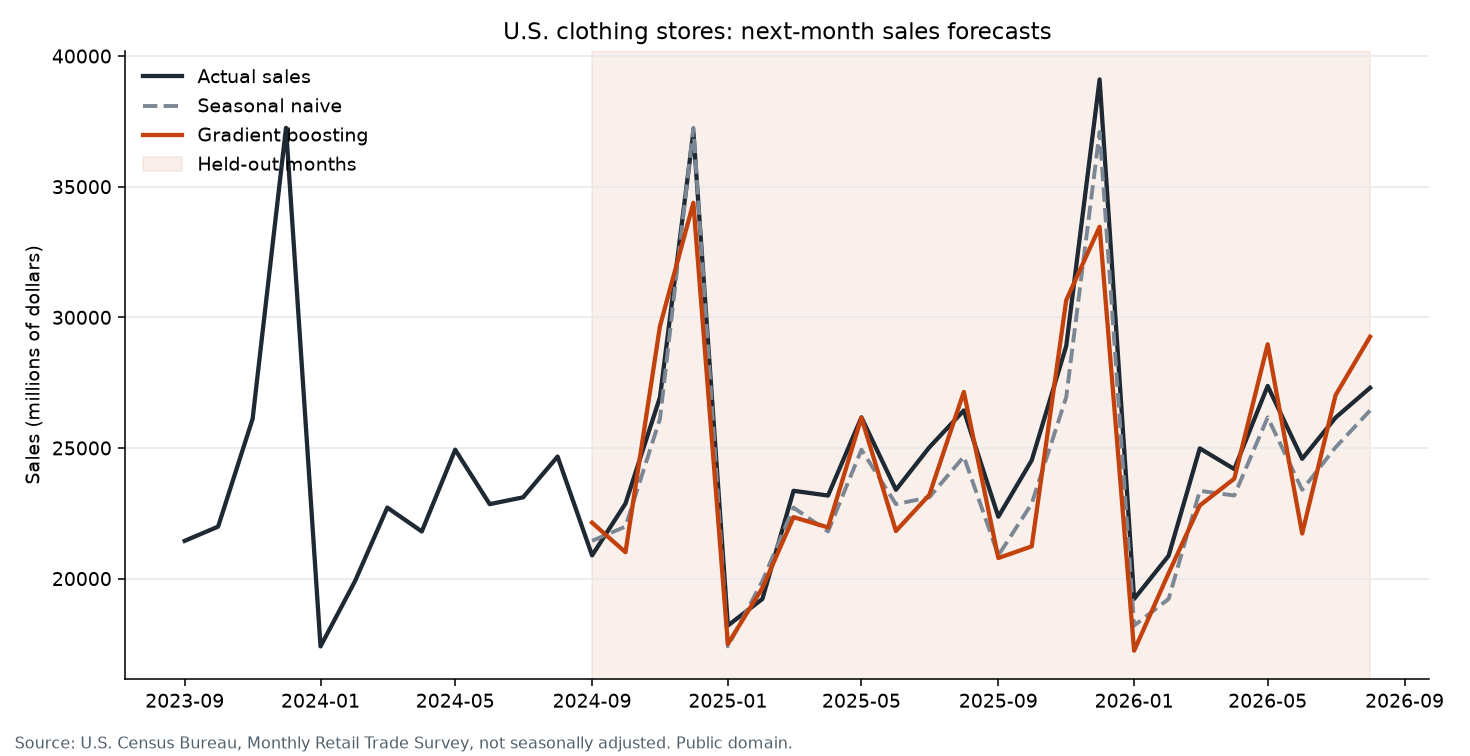
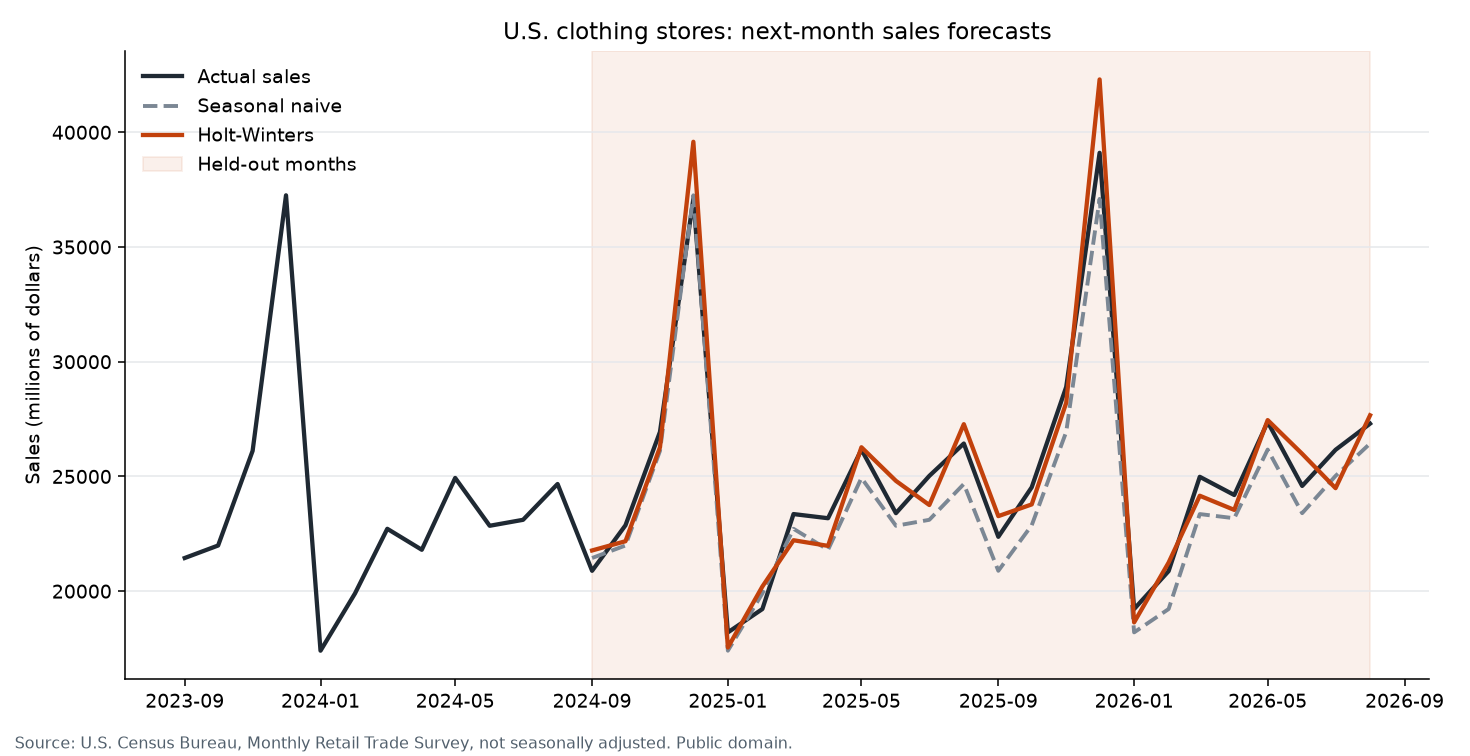
Choose the sales forecast on a window before the holdout.
Compare residual boosting, Holt-Winters, and SARIMA on the earlier 24 months, then score only that choice against the seasonal baseline.

diff --git a/fiverr-samples/sales-forecast/forecast_sales.py b/fiverr-samples/sales-forecast/forecast_sales.py
@@ -6,6 +6,7 @@ The same steps apply to a shop's own monthly export.
 """
 
 import json
+import warnings
 import urllib.request
 from pathlib import Path
 
@@ -13,6 +14,8 @@ import matplotlib.pyplot as plt
 import numpy as np
 import pandas as pd
 from sklearn.ensemble import HistGradientBoostingRegressor
+from statsmodels.tsa.holtwinters import ExponentialSmoothing
+from statsmodels.tsa.statespace.sarimax import SARIMAX
 
 HERE = Path(__file__).resolve().parent
 DATA_DIR = HERE / "data"
@@ -21,7 +24,10 @@ OUT_DIR = HERE / "output"
 SOURCE_URL = "https://www.census.gov/retail/mrts/www/mrtssales92-present.xlsx"
 WORKBOOK = DATA_DIR / "mrtssales92-present.xlsx"
 SERIES_NAME = "Clothing and clothing access. stores"
+# The last 24 months are the holdout. The 24 months before that are for
+# choosing a model. Nothing in the choice looks at the holdout.
 HOLDOUT_MONTHS = 24
+VALIDATION_MONTHS = 24
 
 MONTH_NUMBERS = {
     "jan": 1,
@@ -161,6 +167,7 @@ def add_features(sales):
     frame["lag_2"] = frame["sales_million"].shift(2)
     frame["lag_3"] = frame["sales_million"].shift(3)
     frame["lag_12"] = frame["sales_million"].shift(12)
+    frame["lag_13"] = frame["sales_million"].shift(13)
     frame["roll_mean_3"] = frame["sales_million"].shift(1).rolling(3).mean()
     frame["roll_mean_12"] = frame["sales_million"].shift(1).rolling(12).mean()
     frame["month_number"] = frame.index.month
@@ -175,6 +182,7 @@ FEATURE_COLUMNS = [
     "lag_2",
     "lag_3",
     "lag_12",
+    "lag_13",
     "roll_mean_3",
     "roll_mean_12",
     "month_sin",
@@ -192,55 +200,205 @@ def metrics(actual, predicted):
     return {"mae_million": mae, "mape_percent": mape}
 
 
+def residual_columns():
+    # Last year's sales are added back after the model runs, so they are not a feature.
+    return [column for column in FEATURE_COLUMNS if column != "lag_12"]
+
+
+def fit_residual_boost(train, window, max_depth, learning_rate):
+    """Predict this year minus last year, then add last year back."""
+    model = HistGradientBoostingRegressor(
+        max_depth=max_depth,
+        learning_rate=learning_rate,
+        max_iter=300,
+        l2_regularization=1.0,
+        random_state=0,
+    )
+    change = train["sales_million"] - train["lag_12"]
+    model.fit(train[residual_columns()], change)
+    return window["lag_12"].to_numpy() + model.predict(window[residual_columns()])
+
+
+def fit_yoy_boost(train, window):
+    """Predict the percent change from last year, then scale last year's sales."""
+    model = HistGradientBoostingRegressor(
+        max_depth=3,
+        learning_rate=0.05,
+        max_iter=300,
+        l2_regularization=1.0,
+        random_state=0,
+    )
+    growth = train["sales_million"] / train["lag_12"] - 1.0
+    model.fit(train[residual_columns()], growth)
+    predicted_growth = model.predict(window[residual_columns()])
+    return window["lag_12"].to_numpy() * (1.0 + predicted_growth)
+
+
+def recent_growth_scale(window):
+    """Last year, scaled by how this month's predecessor moved versus a year earlier."""
+    return (window["lag_12"] * window["lag_1"] / window["lag_13"]).to_numpy()
+
+
+def one_step_holt_winters(series, window_index, trend, seasonal, damped):
+    """Refit on everything before each month, then forecast that one month."""
+    preds = []
+    for stamp in window_index:
+        history = series.loc[:stamp].iloc[:-1].asfreq("MS")
+        model = ExponentialSmoothing(
+            history,
+            trend=trend,
+            seasonal=seasonal,
+            seasonal_periods=12,
+            damped_trend=bool(damped) if trend else False,
+            initialization_method="estimated",
+        )
+        fitted = model.fit(optimized=True)
+        value = float(np.asarray(fitted.forecast(1))[0])
+        preds.append(value)
+    return np.asarray(preds, dtype=float)
+
+
+def one_step_sarima(series, window_index, order, seasonal_order):
+    """Estimate once on the past, then step forward one month at a time."""
+    first = window_index[0]
+    history = series.loc[:first].iloc[:-1].asfreq("MS")
+    fitted = SARIMAX(
+        history,
+        order=order,
+        seasonal_order=seasonal_order,
+        enforce_stationarity=False,
+        enforce_invertibility=False,
+    ).fit(disp=False, maxiter=75)
+    preds = []
+    for stamp in window_index:
+        value = float(np.asarray(fitted.forecast(1))[0])
+        preds.append(value)
+        observed = series.loc[[stamp]].asfreq("MS")
+        fitted = fitted.append(observed, refit=False)
+    return np.asarray(preds, dtype=float)
+
+
+def score_window(actual, predicted):
+    predicted = np.asarray(predicted, dtype=float)
+    if len(predicted) != len(actual) or not np.isfinite(predicted).all():
+        raise ValueError("Forecast was missing or not a finite number.")
+    return metrics(actual, predicted)
+
+
+def challengers():
+    """Models we are allowed to choose among. The holdout is not an input."""
+    options = [
+        ("residual_boost_depth2", "residual boosting", lambda train, window, series: fit_residual_boost(train, window, 2, 0.05)),
+        ("residual_boost_depth3", "residual boosting", lambda train, window, series: fit_residual_boost(train, window, 3, 0.05)),
+        ("residual_boost_depth4", "residual boosting", lambda train, window, series: fit_residual_boost(train, window, 4, 0.08)),
+        ("yoy_boost", "year-over-year boosting", lambda train, window, series: fit_yoy_boost(train, window)),
+        ("seasonal_scaled_by_recent_growth", "year-over-year adjustment", lambda train, window, series: recent_growth_scale(window)),
+        ("holt_winters_add", "Holt-Winters", lambda train, window, series: one_step_holt_winters(series, window.index, "add", "add", False)),
+        ("holt_winters_mul_season", "Holt-Winters", lambda train, window, series: one_step_holt_winters(series, window.index, "add", "mul", False)),
+        ("holt_winters_damped", "Holt-Winters", lambda train, window, series: one_step_holt_winters(series, window.index, "add", "add", True)),
+        ("holt_winters_season_only", "Holt-Winters", lambda train, window, series: one_step_holt_winters(series, window.index, None, "add", False)),
+        ("sarima_airline", "SARIMA", lambda train, window, series: one_step_sarima(series, window.index, (0, 1, 1), (0, 1, 1, 12))),
+        ("sarima_110_011", "SARIMA", lambda train, window, series: one_step_sarima(series, window.index, (1, 1, 0), (0, 1, 1, 12))),
+        ("sarima_111_110", "SARIMA", lambda train, window, series: one_step_sarima(series, window.index, (1, 1, 1), (1, 1, 0, 12))),
+    ]
+    return options
+
+
+def run_candidates(train, window, series):
+    scored = []
+    for name, family, predictor in challengers():
+        print(f"trying {name}...")
+        try:
+            with warnings.catch_warnings():
+                warnings.simplefilter("ignore")
+                predicted = predictor(train, window, series)
+            numbers = score_window(window["sales_million"], predicted)
+            row = {"name": name, "family": family, **numbers}
+            print(f"validation {name}: MAE {numbers['mae_million']:.2f} MAPE {numbers['mape_percent']:.2f}")
+        except Exception as exc:
+            row = {"name": name, "family": family, "error": f"{type(exc).__name__}: {exc}"}
+            print(f"skipped {name}: {row['error']}")
+        scored.append(row)
+    return scored
+
+
 def main():
     raw = load_sales()
     cleaned, cleanup = clean_sales(raw)
     featured = add_features(cleaned).dropna(subset=FEATURE_COLUMNS + ["sales_million"])
-    if len(featured) <= HOLDOUT_MONTHS + 24:
-        raise SystemExit("Not enough history for a 24-month holdout.")
+    needed = HOLDOUT_MONTHS + VALIDATION_MONTHS + 24
+    if len(featured) <= needed:
+        raise SystemExit("Not enough history for a validation window and a 24-month holdout.")
 
-    train = featured.iloc[:-HOLDOUT_MONTHS]
-    test = featured.iloc[-HOLDOUT_MONTHS:]
-    # Seasonal naive: this month last year. That number is known before the month begins.
-    seasonal = test["lag_12"].to_numpy()
-    model = HistGradientBoostingRegressor(
-        max_depth=4,
-        learning_rate=0.08,
-        max_iter=400,
-        l2_regularization=0.1,
-        random_state=0,
+    holdout = featured.iloc[-HOLDOUT_MONTHS:]
+    before_holdout = featured.iloc[:-HOLDOUT_MONTHS]
+    validation = before_holdout.iloc[-VALIDATION_MONTHS:]
+    fit_for_choice = before_holdout.iloc[:-VALIDATION_MONTHS]
+    sales = cleaned.set_index("month")["sales_million"].sort_index().asfreq("MS")
+
+    print(
+        "Choosing a model on "
+        f"{validation.index.min():%Y-%m} to {validation.index.max():%Y-%m}. "
+        "The holdout is not used for this choice."
     )
-    model.fit(train[FEATURE_COLUMNS], train["sales_million"])
-    # One month ahead, using only sales that would already be known.
-    boosted = model.predict(test[FEATURE_COLUMNS])
+    naive_validation = score_window(validation["sales_million"], validation["lag_12"])
+    print(
+        "validation seasonal_naive: "
+        f"MAE {naive_validation['mae_million']:.2f} MAPE {naive_validation['mape_percent']:.2f}"
+    )
+    leaderboard = run_candidates(fit_for_choice, validation, sales)
+    usable = [row for row in leaderboard if "mae_million" in row]
+    if not usable:
+        raise SystemExit("Every challenger failed on the validation window.")
+    # Lowest validation error wins. Ties break toward the lower percent error.
+    selected = min(usable, key=lambda row: (row["mae_million"], row["mape_percent"]))
+    selected_predictor = dict((name, fn) for name, _family, fn in challengers())[selected["name"]]
+    print(f"Selected on validation: {selected['name']}")
 
-    baseline = metrics(test["sales_million"], seasonal)
-    better = metrics(test["sales_million"], boosted)
+    # Refit using every month before the holdout, then score the holdout once.
+    with warnings.catch_warnings():
+        warnings.simplefilter("ignore")
+        selected_holdout = selected_predictor(before_holdout, holdout, sales)
+    baseline_holdout = score_window(holdout["sales_million"], holdout["lag_12"])
+    selected_holdout_score = score_window(holdout["sales_million"], selected_holdout)
+
     result = {
         "series": SERIES_NAME,
         "unit": "millions of U.S. dollars",
         "adjustment": "not seasonally adjusted",
+        "validation_months": VALIDATION_MONTHS,
+        "validation_start": validation.index.min().strftime("%Y-%m"),
+        "validation_end": validation.index.max().strftime("%Y-%m"),
         "holdout_months": HOLDOUT_MONTHS,
-        "holdout_start": test.index.min().strftime("%Y-%m"),
-        "holdout_end": test.index.max().strftime("%Y-%m"),
+        "holdout_start": holdout.index.min().strftime("%Y-%m"),
+        "holdout_end": holdout.index.max().strftime("%Y-%m"),
         "cleanup": cleanup,
-        "baseline_seasonal_naive": baseline,
-        "gradient_boosting": better,
-        "boosting_beats_baseline_on_mae": better["mae_million"] < baseline["mae_million"],
-        "boosting_beats_baseline_on_mape": better["mape_percent"] < baseline["mape_percent"],
+        "validation_seasonal_naive": naive_validation,
+        "validation_leaderboard": leaderboard,
+        "selected_model": selected["name"],
+        "selected_family": selected["family"],
+        "baseline_seasonal_naive": baseline_holdout,
+        "selected_model_holdout": selected_holdout_score,
+        "selected_beats_baseline_on_mae": selected_holdout_score["mae_million"] < baseline_holdout["mae_million"],
+        "selected_beats_baseline_on_mape": selected_holdout_score["mape_percent"] < baseline_holdout["mape_percent"],
     }
     OUT_DIR.mkdir(parents=True, exist_ok=True)
     (OUT_DIR / "metrics.json").write_text(json.dumps(result, indent=2), encoding="utf-8")
 
-    history = featured.iloc[-36:]
+    history = featured.iloc[-(HOLDOUT_MONTHS + 12):]
     figure, axis = plt.subplots(figsize=(10.5, 5.4))
     axis.plot(history.index, history["sales_million"], color="#1f2933", linewidth=2.2, label="Actual sales")
-    axis.plot(test.index, seasonal, color="#7b8794", linewidth=2, linestyle="--", label="Seasonal naive")
-    axis.plot(test.index, boosted, color="#c2410c", linewidth=2.2, label="Gradient boosting")
-    axis.axvspan(test.index.min(), test.index.max(), color="#c2410c", alpha=0.08, label="Held-out months")
+    axis.plot(holdout.index, holdout["lag_12"], color="#7b8794", linewidth=2, linestyle="--", label="Seasonal naive")
+    axis.plot(
+        holdout.index,
+        selected_holdout,
+        color="#c2410c",
+        linewidth=2.2,
+        label=selected["family"],
+    )
+    axis.axvspan(holdout.index.min(), holdout.index.max(), color="#c2410c", alpha=0.08, label="Held-out months")
     axis.set_title("U.S. clothing stores: next-month sales forecasts")
     axis.set_ylabel("Sales (millions of dollars)")
-    axis.set_xlabel("")
     axis.legend(frameon=False, loc="upper left")
     axis.spines["top"].set_visible(False)
     axis.spines["right"].set_visible(False)

diff --git a/fiverr-samples/sales-forecast/REPORT.md b/fiverr-samples/sales-forecast/REPORT.md
@@ -10,23 +10,33 @@ The Census workbook is one sheet per year, from January 1992 through August 2026
 - 34 yearly TOTAL columns were skipped. A total is not a month.
 - No month failed to parse, no sales figure was blank or non-numeric, no month was duplicated, and no month was missing between the start and the end.
 
-## How we tested it
+## How we chose the model
 
-We hid the last 24 months, September 2024 through August 2026, and forecast one month at a time. Each forecast was allowed to use sales that would already have been known, including the same month last year. It was not allowed to see the month it was predicting.
+We hid the last 24 months, September 2024 through August 2026. Those months were not used to pick a method.
 
-The simple baseline copies that month from the previous year. The other model is gradient boosting, using recent months, last year, and the calendar.
+On the 24 months before that, September 2022 through August 2024, we compared:
 
-## How accurate
+- copying the same month from the year before (the seasonal baseline)
+- gradient boosting of the change from last year
+- scaling last year by the most recent year-over-year change
+- Holt-Winters (several seasonal settings)
+- a few seasonal ARIMA models
 
-On those 24 months:
+Copying last year was the most accurate on that earlier window: average miss **482.2 million dollars**, or **2.11%**. The closest alternative was Holt-Winters with a multiplicative seasonal pattern: average miss **651.4 million dollars**, or **2.68%**. That is the method we froze and carried forward. The other alternatives were less accurate on that window, so they were not given a second look on the hidden months.
+
+## How accurate on the hidden months
+
+Each forecast is for the next month only, using sales that would already be known.
+
+On September 2024 through August 2026:
 
 - Seasonal baseline: average miss of **1,174.5 million dollars**, which is **4.75%** of that month's sales.
-- Gradient boosting: average miss of **1,698.2 million dollars**, which is **6.52%**.
+- Holt-Winters: average miss of **993.2 million dollars**, which is **3.84%**.
 
-The fancier model did **not** beat the baseline. It followed the shape of the year, but it dulled the December peak and added error in other months. Copying last year was the more accurate forecast.
+Holt-Winters beat the baseline on both measures. It still overshot the biggest December. The gain is a smaller miss in a typical month, not a perfect holiday forecast.
 
 ## What to do next
 
-Use last year's same month as the working forecast, and update it every month. Do not pay for a more complicated model until it beats that simple rule on a fresh stretch of months you held back.
+Use Holt-Winters as the working next-month forecast, and keep last year's number beside it. It won the hidden two years, but it lost the two years we used to choose it, so this is one good check rather than a permanent trophy.
 
-When we do this on your shop, send a clean monthly total (one row per month, no yearly totals mixed in). We will repeat this exact test. If your Decembers move around more than the national series, a model may earn its place. On this public series, it did not.
+When we do this on your shop, send a clean monthly total (one row per month, no yearly totals mixed in). We will repeat the same split: choose on an earlier window, then score the choice once on months it has not seen.

diff --git a/fiverr-samples/sales-forecast/README.md b/fiverr-samples/sales-forecast/README.md
@@ -21,4 +21,4 @@ python3 fiverr-samples/sales-forecast/forecast_sales.py
 
 The script downloads the workbook into `data/` (that folder is not committed), writes `figures/forecast_holdout.png`, and writes `output/metrics.json`.
 
-The holdout is the last 24 months. The baseline is seasonal naive (same month last year). The comparison model is gradient boosting with lags and calendar features. On the run saved in this folder, the baseline was more accurate. See `REPORT.md`.
+The last 24 months are the holdout. The 24 months before that are only for choosing a model. The candidates are a seasonal-naive baseline, residual and year-over-year gradient boosting, Holt-Winters, and SARIMA. On the run saved in this folder, Holt-Winters with multiplicative seasonality was the best alternative on the validation window and then beat the seasonal baseline on the holdout (MAE 993.2 vs 1,174.5 million dollars; MAPE 3.84% vs 4.75%). See `REPORT.md`.

diff --git a/fiverr-samples/README.md b/fiverr-samples/README.md
@@ -2,5 +2,5 @@
 
 Two fixed-price samples a small business can read without a statistics background. Each folder has a script, a chart, and a short client report. The numbers in the reports come from running those scripts.
 
-- [sales-forecast](sales-forecast/): monthly clothing-store sales. Public-domain U.S. Census data. A seasonal baseline beat gradient boosting on the held-out months.
+- [sales-forecast](sales-forecast/): monthly clothing-store sales. Public-domain U.S. Census data. Holt-Winters, chosen on an earlier window, beat a seasonal baseline on the held-out months.
 - [churn-lead-scoring](churn-lead-scoring/): who to call first. UCI Bank Marketing data under CC BY 4.0. Gradient boosting beat logistic regression and a one-rule baseline.
